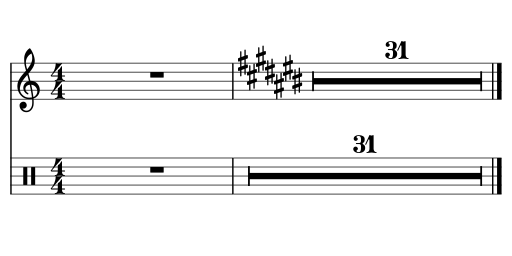
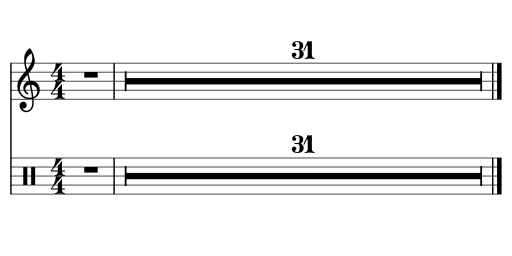
add fix&test for measure repeat
Former-commit-id: 750c75fef7c9f844341239b06b7a683c28af4fed

diff --git a/libmscore/measure.cpp b/libmscore/measure.cpp
@@ -3282,7 +3282,7 @@ void Measure::layoutX(qreal stretch)
                               qreal x = x1 - s->pos().x() + d;
                               e->setPos(x, sl->staffHeight() * .5);   // center vertically in measure
                               }
-                        else if (rest->isFullMeasureRest()) {
+                        else { // if (rest->isFullMeasureRest()) {
                               //
                               // center full measure rest
                               //
@@ -3315,6 +3315,7 @@ void Measure::layoutX(qreal stretch)
                               rest->rxpos() = (x2 - x1 - e->width()) * .5 + x1 - s->x();
                               rest->adjustReadPos();
                               }
+#if 0
                         else {
                               //
                               // center repeat measure
@@ -3344,6 +3345,7 @@ void Measure::layoutX(qreal stretch)
                               e->rxpos() = (x2 - x1 - e->width()) * .5 - s->pos().x();
                               e->adjustReadPos();
                               }
+#endif
                         }
                   else if (t == REST)
                         e->rxpos() = 0;
